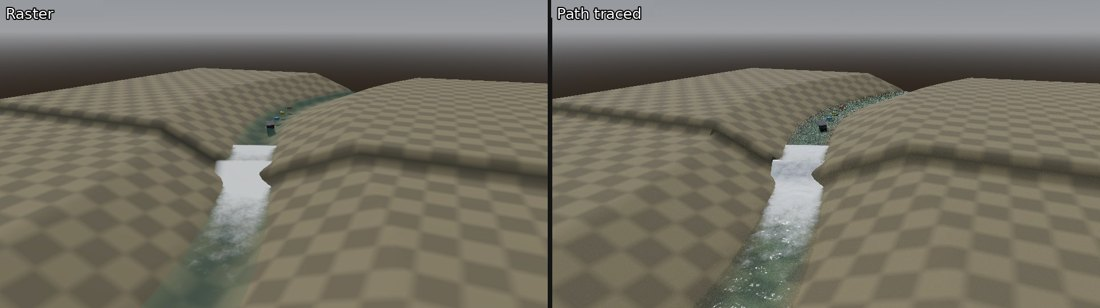
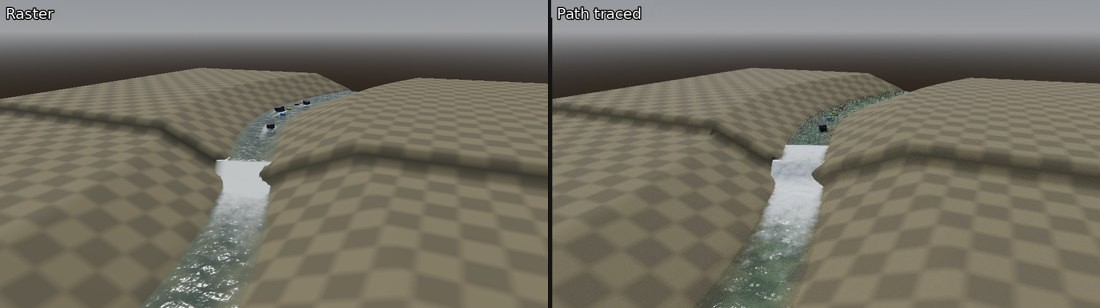
README: river reflections, re-rendered river and shore waves
Claude-Session: https://claude.ai/code/session_019a7Xd2PZ5gvYQ3NZ7og5rU

Changed region(s): [[0.1236, 0.7597, 0.2164, 1.0], [0.1855, 0.2922, 0.34, 0.526]]

diff --git a/README.md b/README.md
@@ -99,7 +99,7 @@ Each feature that changes the look or the cost can be turned off with the settin
 - **Path-traced ocean** (`PhysXWaterSurface3D`: `pathtraced_absorption`, `pathtraced_scattering`, `pathtraced_roughness`): waves refract, tint and scatter, with caustics on the seabed.
 - **Ocean swell** (`wave_cascades`): up to four wave layers give long swell under the chop without visible tiling, whitecaps where they add up, on a shallow-water (TMA) spectrum; set `depth` to the real depth for open sea (the 3 m default damps long waves).
 - **Measured wave spreading** (`wave_spreading`, `swell`): Donelan-Banner spreading as Horvath (2015) fits it, with swell; slopes at 14 m/s match Cox and Munk's measurements.
-- **Raster reflections** (`PhysXWaterSurface3D.raster_reflections`): raster water reflects the sky and the sun's glitter by the exact Fresnel term, matching the path tracer.
+- **Raster reflections** (`raster_reflections` on PhysXWaterSurface3D and PhysXRiver3D): raster sea and rivers reflect the sky and the sun's glitter by the exact Fresnel term, matching the path tracer.
 - **Whitecaps by wind speed** (`whitecap_auto`, on; `whitecap_cover_scale`): whitecap cover follows the wind speed as measured at sea (Monahan 1980), whatever the wave settings.
 - **Finer water mesh up close** (`mesh_detail`).
 - **Shore waves** (`shore_waves`): swell turns with the seabed, grows in the shallows, breaks and runs up the sand (Stockdon run-up).

diff --git a/changelog.d/readme-river-reflections.md b/changelog.d/readme-river-reflections.md
@@ -1,0 +1,3 @@
+### Changed
+
+- README: raster reflections cover rivers; river image and shore waves clip re-rendered.
